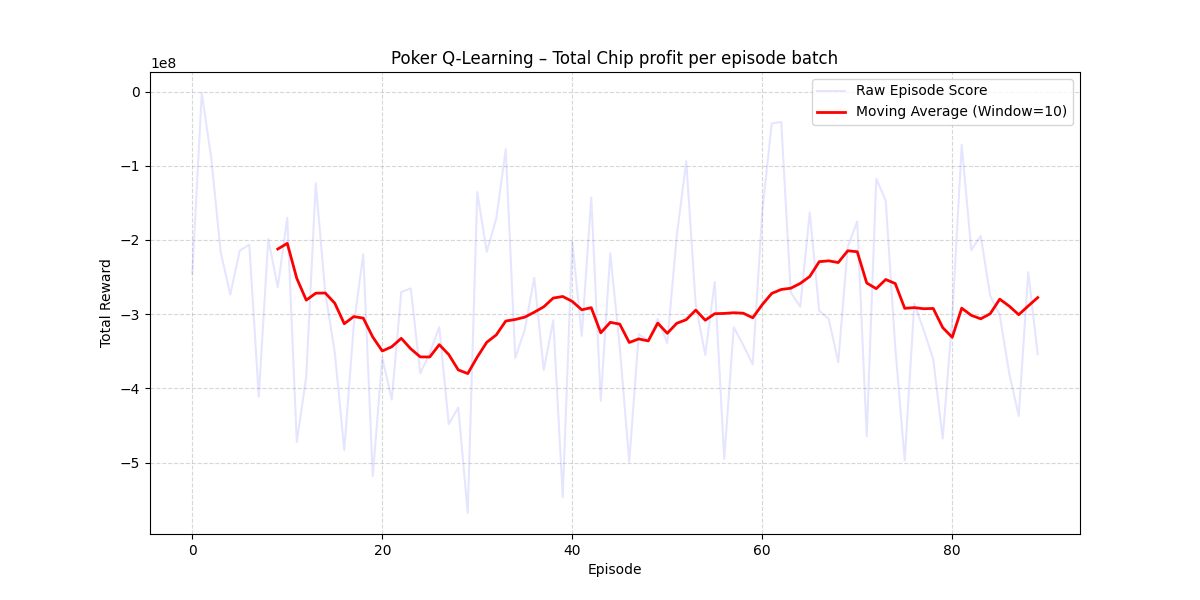
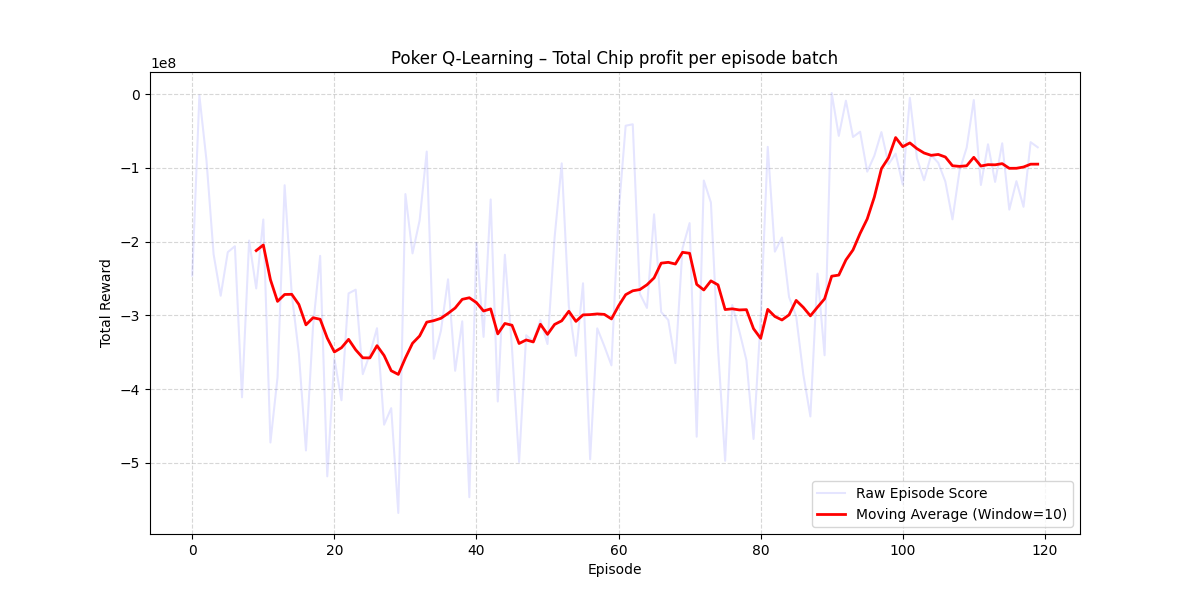
+mil sps  on 1 mil batch size (fused equity calcs into 1 cuda kernel instead of 3)

diff --git a/environments/Poker/PokerGPU.py b/environments/Poker/PokerGPU.py
@@ -12,6 +12,10 @@ class PokerGPU(gym.Env):
     STATE_SPACE=28 # details in depth_notes in rl folder
     MIN_EQUITY_RANK=4145.0
     MAX_EQUITY_RANK=36874.0
+    MAX_FLOP_EQUITY=823779.0
+    MIN_FLOP_EQUITY=74359.0
+    MIN_TURN_RIVER_EQUITY=4109.0
+    MAX_TURN_RIVER_EQUITY=36874.0
 
     def __init__(self, device, agents, n_players=6, max_players=10, n_games=100, starting_bbs=100, max_bbs=1000, w1=.5, w2=.5, K=20):
         super().__init__()
@@ -55,6 +59,9 @@ class PokerGPU(gym.Env):
         self.g=torch.arange(self.n_games, device=self.device)
         self.is_truncated=torch.zeros(self.n_games, dtype=torch.bool, device=self.device) # games never truncated early
         self.bb_amounts=torch.ones(self.n_games, device=self.device, dtype=torch.int32)
+
+        self.equity_turn_denom=max(self.MAX_TURN_RIVER_EQUITY - self.MIN_TURN_RIVER_EQUITY, 1e-8)
+        self.equity_flop_denom=max(self.MAX_FLOP_EQUITY - self.MIN_FLOP_EQUITY, 1e-8)
 
     def set_agents(self, agents):
         self.agents=agents
@@ -115,12 +122,6 @@ class PokerGPU(gym.Env):
         self.prev_stacks=torch.zeros(self.n_games, device=self.device, dtype=torch.int32)
         self.prev_invested=torch.zeros(self.n_games, device=self.device, dtype=torch.int32)
         self.active_player_idx=torch.arange(self.active_players, device=self.device)
-
-        self.seven_cards=torch.zeros((self.n_games, self.active_players, 7), device=self.device, dtype=torch.int32)
-        self.six_cards=torch.zeros((self.n_games, self.active_players, 6), device=self.device, dtype=torch.int32)
-        self.five_cards=torch.zeros((self.n_games, self.active_players, 5), device=self.device, dtype=torch.int32)
-
-        self.offsets=torch.full((self.n_games,), device=self.device, dtype=torch.int32)
 
         return self.get_obs(), self.get_info()
 
@@ -364,73 +365,88 @@ class PokerGPU(gym.Env):
             n_river_games, n_turn_games, n_flop_games = counts[3], counts[2], counts[1],
 
             if n_river_games > 0:
-                self.seven_cards.fill_(0)
-
                 river_boards = self.board[river_mask]
                 river_hands = self.hands[river_mask, :self.active_players]
                 
-                self.seven_cards[:n_river_games, :, 0] = river_hands[:, :, 0]
-                self.seven_cards[:n_river_games, :, 1] = river_hands[:, :, 1]
-                self.seven_cards[:n_river_games, :, 2:7] = river_boards.unsqueeze(1)
+                hands_7_cards_river = torch.zeros(
+                    (n_river_games, self.active_players, 7),
+                    dtype=torch.int32,
+                    device=self.device
+                )
+                
+                hands_7_cards_river[:, :, 0] = river_hands[:, :, 0]
+                hands_7_cards_river[:, :, 1] = river_hands[:, :, 1]
+                hands_7_cards_river[:, :, 2:7] = river_boards.unsqueeze(1)
                 
                 # Evaluate river hands
                 batch_size = n_river_games * self.active_players
-                hands_flat = self.seven_cards[:n_river_games].view(batch_size, 7)
-                self.offsets.fill_(53)
+                hands_flat = hands_7_cards_river.view(batch_size, 7)
+                river_offsets = torch.full((batch_size,), 53, dtype=torch.int32, device=self.device)
                 
                 for card_idx in range(7):
-                    indices = self.offsets[:n_river_games] + hands_flat[:, card_idx]
-                    self.offsets[:n_river_games] = self.hand_ranks[indices]
+                    indices = river_offsets + hands_flat[:, card_idx]
+                    river_offsets = self.hand_ranks[indices]
                 
-                ranks = self.offsets[:n_river_games].view(n_river_games, self.active_players)
+                ranks = river_offsets.view(n_river_games, self.active_players)
                 river_game_indices = torch.where(river_mask)[0]
                 self.equities[river_game_indices[:, None], self.active_player_idx] = ranks.to(torch.float32)
-                r = self.equities[river_mask]
-                self.equities[river_mask] = (r - r.min()) / (r.max() - r.min() + 1e-8)
+                self.equities = torch.where(
+                    river_mask.unsqueeze(-1),
+                    ((self.equities - self.MIN_TURN_RIVER_EQUITY) / self.equity_turn_denom).clamp(0.0, 1.0),
+                    self.equities
+                )
 
             if n_turn_games > 0:
-                self.six_cards.fill_(0)
                 turn_boards, turn_hands = self.board[turn_mask], self.hands[turn_mask, :self.active_players]
+                hands_6_cards=torch.zeros(
+                    (n_turn_games, self.active_players, 6), dtype=torch.int32,
+                    device=self.device
+                )
 
-                self.six_cards[:n_turn_games, :, 0] = turn_hands[:, :, 0]
-                self.six_cards[:n_turn_games, :, 1] = turn_hands[:, :, 1]
-                self.six_cards[:n_turn_games, :, 2:] = turn_boards[:, 0:4].unsqueeze(1)
+                hands_6_cards[:, :, 0] = turn_hands[:, :, 0]
+                hands_6_cards[:, :, 1] = turn_hands[:, :, 1]
+                hands_6_cards[:, :, 2:] = turn_boards[:, 0:4].unsqueeze(1)
                 batch_size=n_turn_games*self.active_players
-                hands_flat=self.six_cards[:n_turn_games].view(batch_size, 6)
-                self.offsets.fill_(53)
+                hands_flat=hands_6_cards.view(batch_size, 6)
+                turn_offsets = torch.full((batch_size,), 53, dtype=torch.int32, device=self.device)
                 
                 for card_idx in range(6):
-                    indices = self.offsets[:n_turn_games] + hands_flat[:, card_idx]
-                    self.offsets[:n_turn_games] = self.hand_ranks[indices]
+                    indices = turn_offsets + hands_flat[:, card_idx]
+                    turn_offsets = self.hand_ranks[indices]
                 
-                final_values=self.hand_ranks[self.offsets[:n_turn_games]]
+                final_values=self.hand_ranks[turn_offsets]
                 ranks = final_values.view(n_turn_games, self.active_players)
                 turn_game_indices = torch.where(turn_mask)[0]
                 self.equities[turn_game_indices[:, None], self.active_player_idx] = ranks.to(torch.float32)
-                t = self.equities[turn_mask]
-                self.equities[turn_mask] = (t - t.min()) / (t.max() - t.min() + 1e-8)
+                
+                self.equities = torch.where(
+                    turn_mask.unsqueeze(-1),
+                    ((self.equities - self.MIN_TURN_RIVER_EQUITY) / self.equity_turn_denom).clamp(0.0, 1.0),
+                    self.equities
+                )
 
             if n_flop_games > 0:
-                self.five_cards.fill_(0)
                 flop_boards, flop_hands = self.board[flop_mask], self.hands[flop_mask, :self.active_players]
-                self.five_cards[:n_flop_games, :, 0:2] = flop_hands
-                self.five_cards[:n_flop_games, :, 2:] = flop_boards[:, 0:3].unsqueeze(1)  # flop is first 3 board cards
+                hands_5_cards = torch.zeros((n_flop_games, self.active_players, 5), dtype=torch.int32, device=self.device)
+                hands_5_cards[:, :, 0:2] = flop_hands
+                hands_5_cards[:, :, 2:] = flop_boards[:, 0:3].unsqueeze(1)  # flop is first 3 board cards
                 batch_size = n_flop_games * self.active_players
-                hands_flat = self.five_cards[:n_flop_games].view(batch_size, 5)
-                self.offsets.fill_(53)
+                hands_flat = hands_5_cards.view(batch_size, 5)
+                flop_offsets = torch.full((batch_size,), 53, dtype=torch.int32, device=self.device)
                 for card_idx in range(5):
-                    indices = self.offsets[:n_flop_games] + hands_flat[:, card_idx]
-                    self.offsets[:n_flop_games] = self.hand_ranks[indices]
-                offsets = self.hand_ranks[self.offsets[:n_flop_games]]      # first +0
+                    indices = flop_offsets + hands_flat[:, card_idx]
+                    flop_offsets = self.hand_ranks[indices]
+                offsets = self.hand_ranks[flop_offsets]      # first +0
                 final_ranks = self.hand_ranks[offsets]  # second +0
                 ranks = final_ranks.view(n_flop_games, self.active_players)
                 flop_game_indices = torch.where(flop_mask)[0]
                 self.equities[flop_game_indices[:, None], self.active_player_idx] = ranks.to(torch.float32)
-                f = self.equities[flop_mask]
-                self.equities[flop_mask] = (f - f.min()) / (f.max() - f.min() + 1e-8)
-                print(f.min())
-                print(f.max())
-                
+                self.equities = torch.where(
+                    flop_mask.unsqueeze(-1),
+                    ((self.equities - self.MIN_FLOP_EQUITY) / self.equity_flop_denom).clamp(0.0, 1.0),
+                    self.equities
+                )
+
         preflop_mask = self.stages == 0
         self.equities[preflop_mask] = 0.5
     
